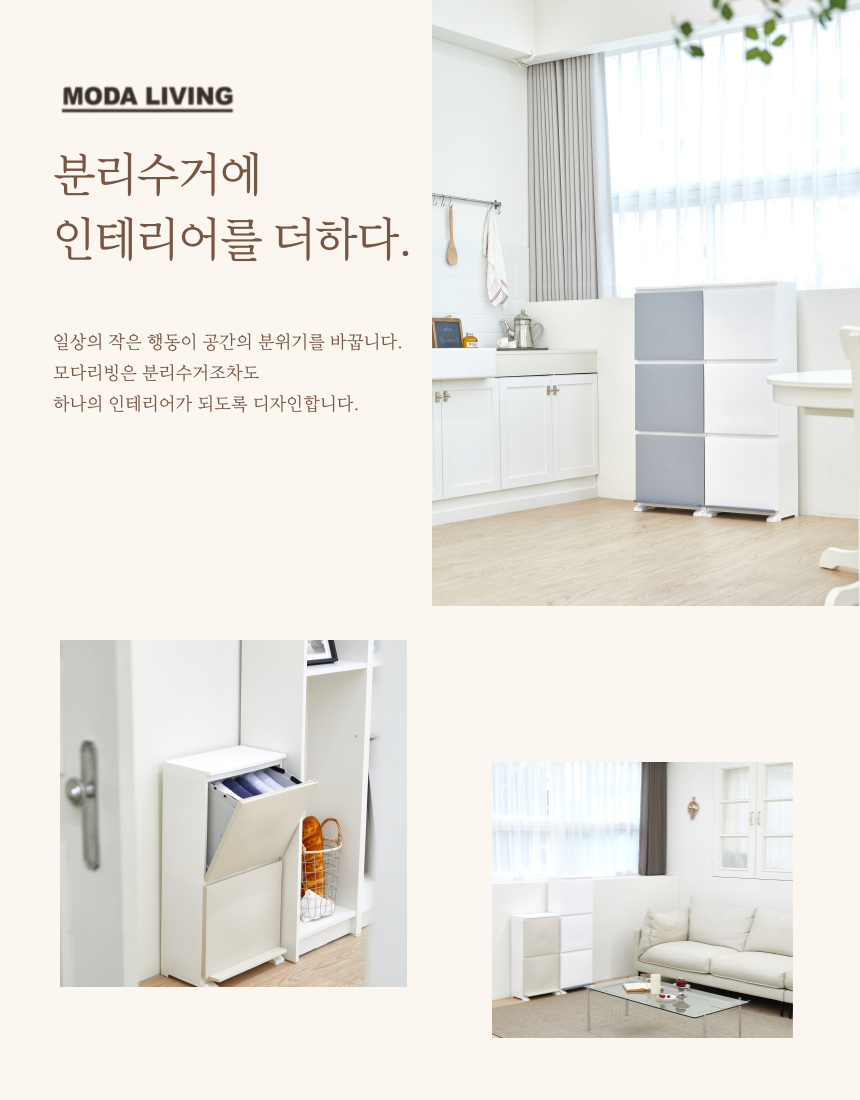
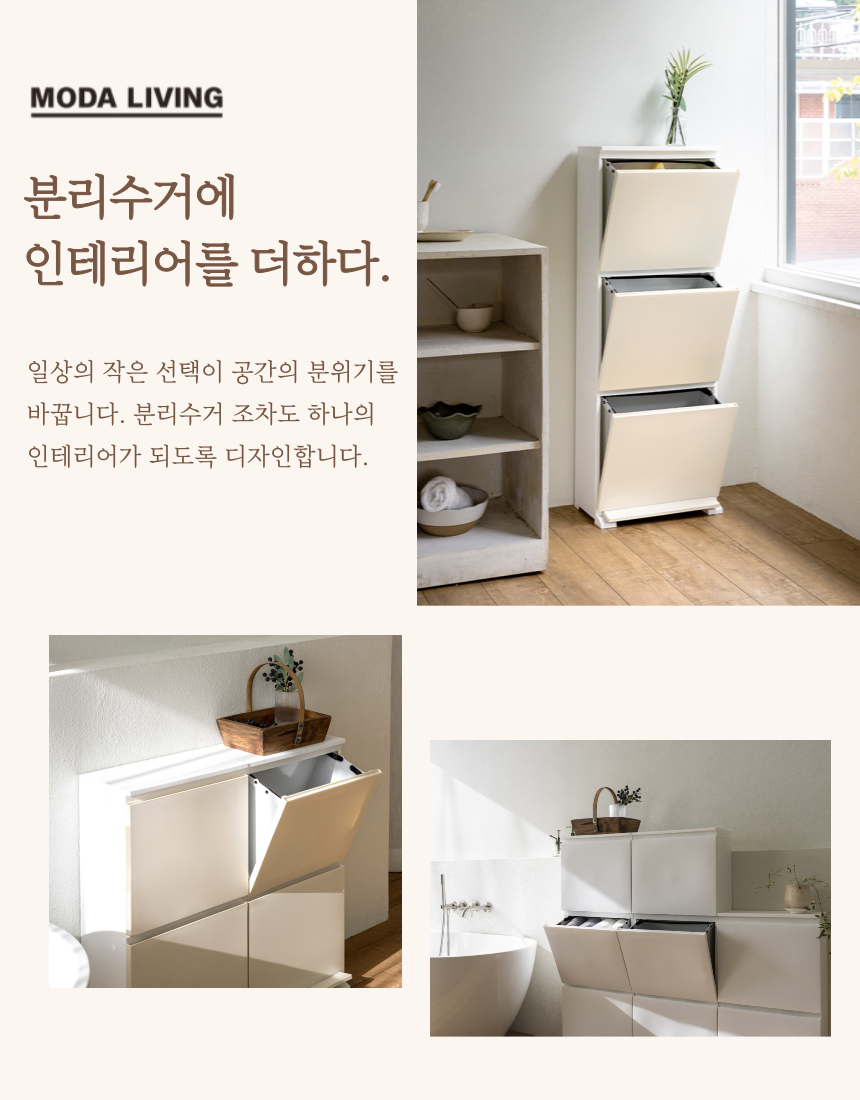
수정끝

diff --git a/index.html b/index.html
@@ -137,7 +137,7 @@
 
  
 
-        <section style="max-width: 860px; margin: 0 auto; padding: 64px 32px;">
+        <section style="max-width: 860px; margin: 0 auto; padding: 64px 0;">
             <header style="display: flex; align-items: center; justify-content: center; margin-bottom: 40px; gap: 20px;">
                 <div style="flex: 1; height: 2px; background-color: #a98f7a;"></div>
                 <h2
@@ -148,8 +148,8 @@
 
             <section style="margin-bottom: 48px; text-align: left;">
                 <h1 style="font-size: 32px; text-align: center; font-weight: 500; color: #333333; line-height: 1.3; margin: 0;">
-                    <span style="font-size: 24px; font-weight: 500; color: #888888; display: block; margin-bottom: 8px;">저가 수입제품과 달리 모다리빙에서</span>
-                    직접 개발하고 국산 원료로 생산하는<br> 
+                    <span style="font-size: 24px; font-weight: 500; color: #888888; display: block; margin-bottom: 8px;">저가 수입제품과 달리</span>
+                    직접 개발하고 고품질 국내산 원료로 생산하는<br> 
                     100% 국내생산 제품입니다.
                 </h1>
             </section>
@@ -163,13 +163,13 @@
 
         <section style="max-width: 860px; margin: 0 auto; padding: 0; margin-bottom: 40px;">
             <div style="width: 100%; margin-bottom: 0;">
-                <img src="modliving_img/모다상단001.jpeg" alt="MODA LIVING Banner 3" style="width: 100%; height: auto; display: block; object-fit: cover;">
+                <img src="modliving_img/모다상단003.jpeg" alt="MODA LIVING Banner 3" style="width: 100%; height: auto; display: block; object-fit: cover;">
             </div>
         </section>
 
         <section style="max-width: 860px; margin: 0 auto; padding: 0; margin-bottom: 40px;">
             <div style="width: 100%; margin-bottom: 0;">
-                <img src="modliving_img/모다상단002.jpeg" alt="MODA LIVING Banner 3" style="width: 100%; height: auto; display: block; object-fit: cover;">
+                <img src="modliving_img/모다상단004.jpeg" alt="MODA LIVING Banner 3" style="width: 100%; height: auto; display: block; object-fit: cover;">
             </div>
         </section>
 
@@ -273,7 +273,7 @@
                     </div>
                 </div>
             </div>
-
+  <!--
             <div style="text-align: center; margin-bottom: 40px;">
                 <hr style="border: 0; border-top: 1px solid #f0f0f0; margin: 40px auto; width: 80%;">
                 <div style="display: flex; align-items: center; justify-content: center; margin: 0 0 10px 0;">
@@ -288,7 +288,7 @@
             </div>
 
             <div style="display: grid; grid-template-columns: repeat(auto-fill, minmax(160px, 1fr)); gap: 15px;">
-                <!-- Grid Item 1 -->
+            
                 <div style="border: 1px solid #e9e9e9; border-radius: 2px; overflow: hidden;">
                     <div style="position: relative; width: 100%; aspect-ratio: 1; overflow: hidden;">
                         <img src="/modaliving_review/새 폴더/review011.png" alt="Review"
@@ -312,7 +312,7 @@
                     </div>
                 </div>
 
-                <!-- Grid Item 2 -->
+         
                 <div style="border: 1px solid #e9e9e9; border-radius: 2px; overflow: hidden;">
                     <div style="position: relative; width: 100%; aspect-ratio: 1; overflow: hidden;">
                         <img src="/modaliving_review/새 폴더/review017.png" alt="Review"
@@ -336,7 +336,7 @@
                     </div>
                 </div>
 
-                <!-- Grid Item 4 -->
+               
                 <div style="border: 1px solid #e9e9e9; border-radius: 2px; overflow: hidden;">
                     <div style="position: relative; width: 100%; aspect-ratio: 1; overflow: hidden;">
                         <img src="/modaliving_review/새 폴더/review026.png" alt="Review"
@@ -360,7 +360,7 @@
                     </div>
                 </div>
 
-                <!-- Grid Item 5 -->
+             
                 <div style="border: 1px solid #e9e9e9; border-radius: 2px; overflow: hidden;">
                     <div style="position: relative; width: 100%; aspect-ratio: 1; overflow: hidden;">
                         <img src="/modaliving_review/새 폴더/review034.png" alt="Review"
@@ -384,7 +384,7 @@
                     </div>
                 </div>
 
-                <!-- Grid Item 6 -->
+         
                 <div style="border: 1px solid #e9e9e9; border-radius: 2px; overflow: hidden;">
                     <div style="position: relative; width: 100%; aspect-ratio: 1; overflow: hidden;">
                         <img src="/modaliving_review/새 폴더/review035.png" alt="Review"
@@ -408,7 +408,7 @@
                     </div>
                 </div>
 
-                <!-- Grid Item 7 -->
+           
                 <div style="border: 1px solid #e9e9e9; border-radius: 2px; overflow: hidden;">
                     <div style="position: relative; width: 100%; aspect-ratio: 1; overflow: hidden;">
                         <img src="/modaliving_review/새 폴더/review036.png" alt="Review"
@@ -432,7 +432,7 @@
                     </div>
                 </div>
 
-                <!-- Grid Item 9 -->
+             
                 <div style="border: 1px solid #e9e9e9; border-radius: 2px; overflow: hidden;">
                     <div style="position: relative; width: 100%; aspect-ratio: 1; overflow: hidden;">
                         <img src="/modaliving_review/새 폴더/review027.png" alt="Review"
@@ -456,7 +456,7 @@
                     </div>
                 </div>
 
-                <!-- Grid Item 10 -->
+              
                 <div style="border: 1px solid #e9e9e9; border-radius: 2px; overflow: hidden;">
                     <div style="position: relative; width: 100%; aspect-ratio: 1; overflow: hidden;">
                         <img src="/modaliving_review/새 폴더/review022.png" alt="Review"
@@ -480,7 +480,6 @@
                     </div>
                 </div>
 
-                <!-- Grid Item 12 -->
                 <div style="border: 1px solid #e9e9e9; border-radius: 2px; overflow: hidden;">
                     <div style="position: relative; width: 100%; aspect-ratio: 1; overflow: hidden;">
                         <img src="/modaliving_review/새 폴더/review013.png" alt="Review"
@@ -504,7 +503,7 @@
                     </div>
                 </div>
 
-                <!-- Grid Item 13 -->
+           
                 <div style="border: 1px solid #e9e9e9; border-radius: 2px; overflow: hidden;">
                     <div style="position: relative; width: 100%; aspect-ratio: 1; overflow: hidden;">
                         <img src="/modaliving_review/새 폴더/review042.png" alt="Review"
@@ -528,7 +527,7 @@
                     </div>
                 </div>
 
-                <!-- Grid Item 15 -->
+             
                 <div style="border: 1px solid #e9e9e9; border-radius: 2px; overflow: hidden;">
                     <div style="position: relative; width: 100%; aspect-ratio: 1; overflow: hidden;">
                         <img src="/modaliving_review/새 폴더/review032.png" alt="Review"
@@ -552,7 +551,7 @@
                     </div>
                 </div>
 
-                <!-- Grid Item 16 -->
+             
                 <div style="border: 1px solid #e9e9e9; border-radius: 2px; overflow: hidden;">
                     <div style="position: relative; width: 100%; aspect-ratio: 1; overflow: hidden;">
                         <img src="/modaliving_review/새 폴더/review028.png" alt="Review"
@@ -578,6 +577,7 @@
             </div>
         </div>
     </section>
+  -->
 
       <header style="text-align: center; padding: 60px 20px 50px 20px;">
             <h1 class="main-title"
@@ -585,7 +585,7 @@
                 찐 리뷰가 인정하는 찐- 분리수거함
             </h1>
             <p style="font-size: 16px; color: #555555; line-height: 1.6; margin: 0;">
-                모다리빙 분리수거함으로 완성된<br>고객님들의 생생한 리뷰를 확인해 보세요!
+                고객님들의 생생한 리뷰를 확인해 보세요!
             </p>
         </header>
 
@@ -675,9 +675,10 @@
                 </div>
             </article>
         </section>
-
+     
+         
         <!-- Check Point Section -->
-        <section style="width: 100%; max-width: 860px; margin: 40px auto; box-sizing: border-box;">
+      <!--        <section style="width: 100%; max-width: 860px; margin: 40px auto; box-sizing: border-box;">
             <div style="position: relative; text-align: center; background-image: url('modliving_img/화이트3단/white03.png'); background-size: cover; background-position: center; background-repeat: no-repeat; padding-top: 60px; padding-bottom: 50px;">
                 <div style="position: absolute; top: 0; left: 0; right: 0; padding-top: 60px; z-index: 2;">
                     <div style="display: inline-block;">
@@ -708,6 +709,8 @@
                 </div>
             </div>
         </section>
+        -->
+
 
         <!-- Info Section -->
          <!--
@@ -850,7 +853,8 @@
                 </div>
             </div>
         </section>-->
-
+         
+        <!--
         <section style="width: 100%; max-width: 860px; margin: 0 auto; box-sizing: border-box;">
             <div style="padding: 30px 30px;">
                 <header style="text-align: left; margin-bottom: 60px;">
@@ -942,7 +946,7 @@
                 </div>
             </div>
         </section>
-
+-->
       
 
         <section style="position: relative; width: 100%; max-width: 860px; margin: 0 auto; box-sizing: border-box;">
@@ -1097,7 +1101,7 @@
                     style="background-color: #FFFFFF; border: 1px solid #afabab; padding: 20px; border-radius: 4px; margin-bottom: 16px; text-align: center;">
                     <p style="color: #3A3A3A; font-size: 14px; line-height: 1.6; margin: 0;">
                         #미니멀리즘 #좁은공간전용<br>
-                        각 단 20리터 종량제 봉투 맞춤 사이즈
+                      
                     </p>
                 </div>
                 <div
@@ -1125,7 +1129,7 @@
                     style="background-color: #FFFFFF; border: 1px solid #afabab; padding: 20px; border-radius: 4px; margin-bottom: 16px; text-align: center;">
                     <p style="color: #3A3A3A; font-size: 14px; line-height: 1.6; margin: 0;">
                         #공간효율성 #실속있는수납<br>
-                        각 단 20리터 종량제 봉투 맞춤 사이즈
+                    
                     </p>
                 </div>
                 <div
@@ -1144,7 +1148,7 @@
                    
            
         </section>
-
+   <!--
         <section
             style="background-color: #47320e; max-width: 860px; margin: 0 auto; padding: 0; box-sizing: border-box;">
             <header style="padding: 80px 32px 128px 32px; text-align: left;">
@@ -1174,8 +1178,8 @@
                 </div>
             </div>
         </section>
-
-        <section style="max-width: 860px; margin: 0 auto; padding: 64px 32px;">
+-->
+        <section style="max-width: 860px; margin: 0 auto; padding: 64px 0;">
             <div style="border-top: 2px solid #9CA3AF; border-bottom: 2px solid #9CA3AF; padding: 16px 0;">
                 <div
                     style="display: flex; justify-content: space-between; align-items: center; font-size: 13px; color: #374151; font-family: 'Montserrat', sans-serif; letter-spacing: 0.1em; font-weight: 500;">
@@ -1190,7 +1194,7 @@
                     수납은 넉넉하게
                 </h1>
                 <p style="margin-top: 32px; font-size: 18px; color: #4B5563; line-height: 1.6;">
-                    1단당 최대 20L 수납이 가능한 스택형 구조로<br>
+                    1단당 최대 20L 수납이 가능한 적층형 구조로<br>
                     공간 효율성을 극대화했습니다.<br>
                     필요에 따라 쌓아 쓰는 똑똑한 정리를 경험하세요.
                 </p>
@@ -1226,7 +1230,7 @@
                 </div>
             </section>
 
-            <div style="padding: 64px 40px;">
+            <div style="padding: 64px 0 0 0">
                 <div style="border-top: 2px solid #9CA3AF; border-bottom: 2px solid #9CA3AF; padding: 16px 0;">
                     <div
                         style="display: flex; justify-content: space-between; align-items: center; font-size: 13px; color: #374151; font-family: 'Montserrat', sans-serif; letter-spacing: 0.1em; font-weight: 500;">
@@ -1239,7 +1243,7 @@
                         하단 발판
                         시스템
                     </h1>
-                    <p style="margin-top: 24px; font-size: 18px; color: #4B5563; line-height: 1.6;">
+                    <p style="margin-top: 48px; font-size: 18px; color: #4B5563; line-height: 1.6;">
                         매번 허리 숙이기 불편하셨죠?<br>
                         허리는 편하게 생활은 더 스마트하게.
                     </p>
@@ -1248,7 +1252,7 @@
         </section>
 
         <section style="max-width: 860px; margin: 0 auto;">
-            <div style="padding: 0 24px 96px 24px;">
+            <div style="padding: 0 24px 96px 0;">
                 <p style="font-size: 24px; color: #1F2937; line-height: 1.6; margin: 0;">
                     인체 공학 설계 원터치 패달 방식으로<br>
                     발판만 툭 누르면 되니까<br>
@@ -1263,14 +1267,14 @@
     
            
         </section>
-
+     <!--
         <section style="max-width: 860px; margin: 0 auto; padding: 0;">
             <div style="width: 100%; margin-bottom: 20px; margin-top: 40px;">
                 <img src="modaliving_gif/moda-usage-demo3.gif" alt="MODA LIVING 주방 라이프스타일 데모" style="width: 100%; height: auto; display: block; object-fit: cover;">
             </div>
         </section>
 
-        
+        -->
 
         <section
             style="max-width: 860px; margin: 0 auto; padding: 60px 32px; display: flex; align-items: center; justify-content: flex-start;">
@@ -1310,7 +1314,7 @@
                     alt="A woman in a beige cardigan and dark jeans stands in a minimalist room, holding a small dark cup. To her left are two modern, light-gray trash cans, one with short legs and one with taller legs. In the background is a gray modular shelving system with books and decorative objects."
                     style="width: 100%; height: auto; display: block; object-fit: cover;">
             </figure>
-            <div style="max-width: 860px; margin: 0 auto; padding: 0 24px;">
+            <div style="max-width: 860px; margin: 0 auto; padding: 0;">
                 <div style="padding: 80px 0;">
                     <div style="border-top: 2px solid #9CA3AF; border-bottom: 2px solid #9CA3AF; padding: 16px 0;">
                         <div
@@ -1490,14 +1494,14 @@
             </p>
         </section>
 
-        
-
+         
+        <!--
         <section style="max-width: 860px; margin: 0 auto; padding: 0;">
             <div style="width: 100%; margin-bottom: 20px;">
                 <img src="modaliving_gif/moda-lifestyle-kitchen2.gif" alt="MODA LIVING 주방 라이프스타일 데모" style="width: 100%; height: auto; display: block; object-fit: cover;">
             </div>
         </section>
-
+-->
       
 
         <section>
@@ -1592,7 +1596,7 @@
        
        
 
-        <section style="max-width: 860px; margin: 0 auto; padding: 64px 32px;">
+        <section style="max-width: 860px; margin: 0 auto; padding: 64px 0;">
             <header style="display: flex; align-items: center; margin-bottom: 40px;">
                 <h2
                     style="font-size: 24px; font-family: 'Plus Jakarta Sans', sans-serif; font-weight: 400; color: #a98f7a; white-space: nowrap; margin: 0;">
@@ -1748,7 +1752,7 @@
                     </div>
 
                     <div style="margin-top: 35px; border: 1px solid #e0e0e0; padding: 8px 15px; display: inline-block;">
-                        <p style="margin: 0; font-size: 14px; color: #888888; letter-spacing: -0.5px;">내통 내부 사이즈 : 350 x 320 x 210 mm</p>
+                        <p style="margin: 0; font-size: 14px; color: #888888; letter-spacing: -0.5px;">내통 내부 사이즈 : 340(w) x 200(D) x 310(H) mm</p>
                     </div>
 
                     <div style="margin-top: 35px;">
